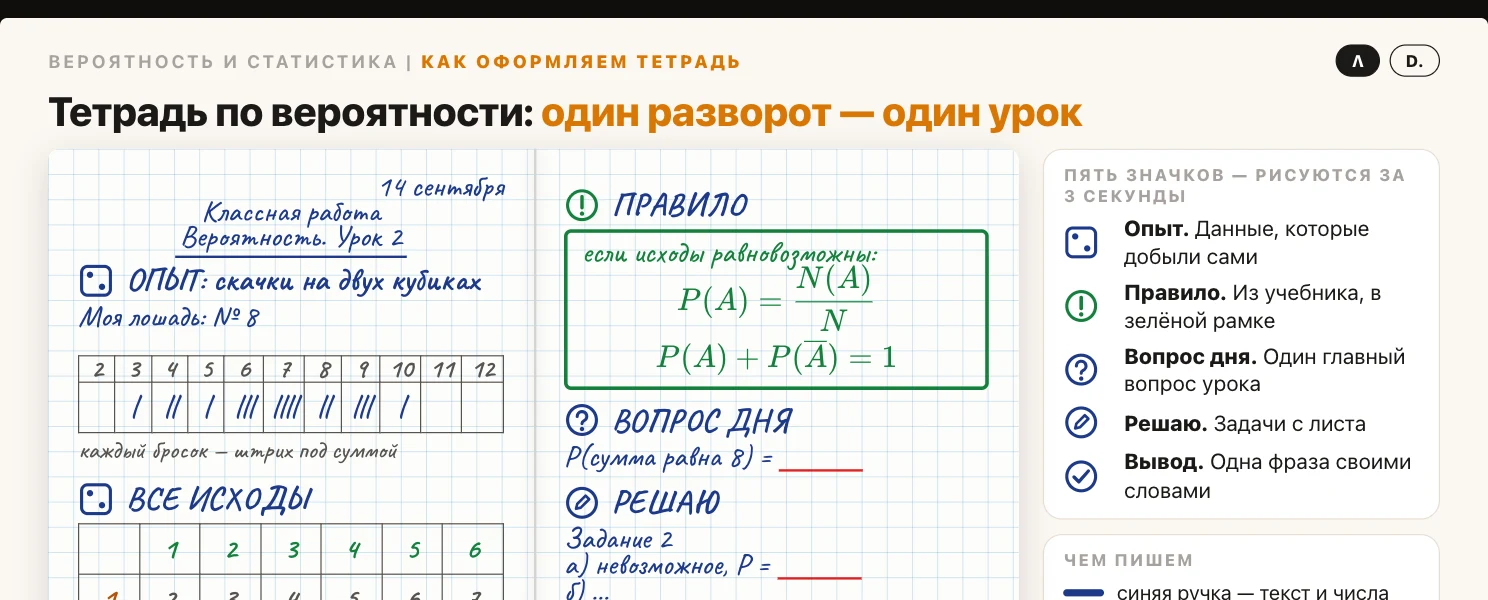
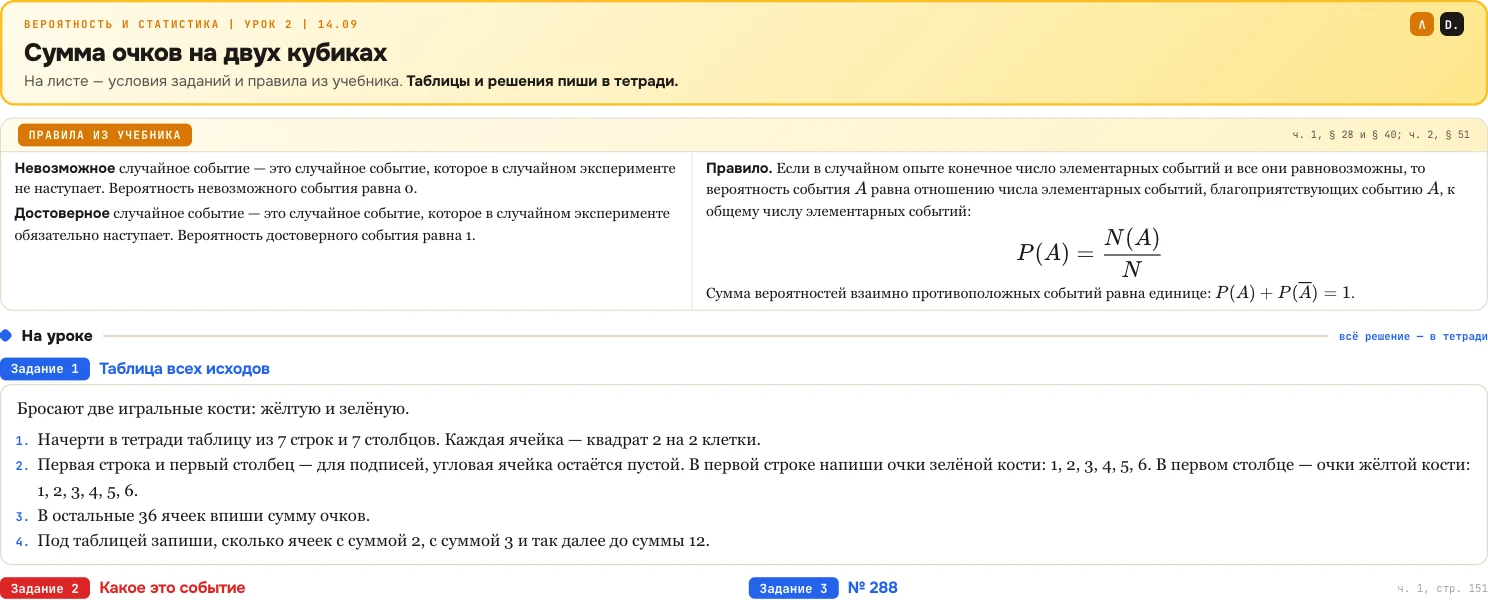
Обновление материалов уроков

diff --git a/data.js b/data.js
@@ -239,27 +239,25 @@ var DATA = {
           lead: 'Скачки на двух кубиках: почему сумма 7 выпадает чаще суммы 2. Одинаково возможны ячейки таблицы, а не суммы',
           para: 'Учебник, ч. 1, § 28 и § 40; ч. 2, § 51',
           mat: [
-            { kind: 'dz',      label: 'Лист урока', hint: 'стр. 1 — задания урока, стр. 2 — домашняя работа',
+            { kind: 'dz',      label: 'Лист урока (v2)', hint: 'стр. 1 — задания урока, стр. 2 — домашняя работа',
               src: 'Уроки 9 класс/v03_лист_скачки.pdf', out: 'uroki/v03-list.pdf' },
-            { kind: 'teoriya', label: 'Образец тетради', hint: 'как оформить разворот урока',
-              src: 'Уроки 9 класс/v03_образец_тетради.html', out: 'uroki/v03-tetrad.html' },
             { kind: 'live',    label: 'Скачки на двух кубиках', hint: 'скачки, таблица 36 исходов, тысяча бросков',
               src: 'Уроки 9 класс/v03_интерактив_скачки.html', out: 'uroki/v03-skachki.html' },
           ],
           dz: {
             due: '21.09',
-            tetrad: [
+            printLabel: 'лист урока, страница 2',
+            print: [
               'Задание 5 — опыт с монетой: две строки по 40 букв',
               'Задание 6 — опыт с крышкой: 50 бросков, таблица, частоты',
             ],
-            printLabel: 'лист урока, страница 2',
-            print: [
+            printNote: 'Опыты делаются в тетради. Тетрадь с опытами принести на урок',
+            tetrad: [
               'Задание 7 — № 287',
               'Задание 8 — № 286 (а, г)',
               'Задание 9 — № 52 (в, г)',
               '⭐ Задание 10 — № 295, дополнительное',
             ],
-            printNote: 'Решения — в тетради. Тетрадь с опытами принести на урок',
           },
         },
       ],

diff --git a/index.html b/index.html
@@ -41,7 +41,7 @@
 <script src="plan.js?v=cad5f7e4"></script>
 <script src="raspisanie.js?v=c191abc8"></script>
 <script src="covers.js?v=224e571d"></script>
-<script src="data.js?v=389cd279"></script>
+<script src="data.js?v=7267ca1d"></script>
 <script src="calendar.js?v=4ff9ef7e"></script>
 <script src="app.js?v=35cce757"></script>
 </body>
